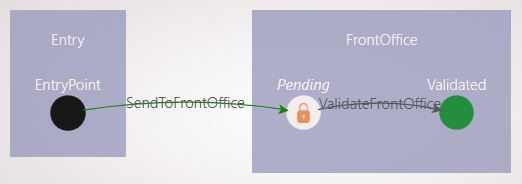
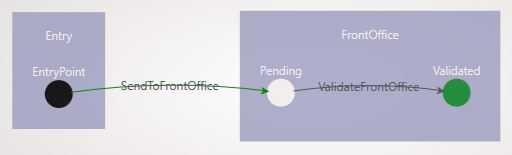
Updating state documentation

Changed region(s): [[0.0, 0.0516, 1.0, 0.9548], [0.6562, 0.1806, 0.8125, 0.2581]]

diff --git a/Documentation/README.md b/Documentation/README.md
@@ -101,8 +101,9 @@ In XCStudio a state machine is a set of states, a state machine is delimited by 
 
 ### State definition
 
-A state is the current status of a state machine instance.
-A state is represented by a colored circle in XCStudio.
+A state is the current status of a state machine instance. An instance can only be in one state at a time. 
+
+The state is represented by a colored circle in XCStudio. We will explain the different state types and their associated colors with more details in the [States in depth](#states-in-depth) section.
 
 ### Transition definition
 
@@ -266,11 +267,11 @@ Follow these instructions to create a simple state machine with 2 states and 1 t
 - Rename the transition to *SendToFrontOffice*
 - Rename *StateMachine1* to *Entry*
 
-The component looks like this:
+The component will look like the following:
 
 ![component details](Images/component_impl.jpg)
 
-> It is important to notice that each time you arrive on a state machine from another, a new instance of state machine is created.
+> It is important to notice that each time you arrive on a state machine from another, a new instance of that state machine is created.
 
 Save your component: File + Save or Crtl+S.
 Notice that you can save the project by using the Maj+Ctrl+S shortcut
@@ -301,7 +302,7 @@ Another way to do this is to press the DEL key when you have selected one or mor
 ### Creating a component data structure
 
 XComponent is an event-driven platform. It means that:
-- you can events to components to trigger transitions
+- you can send events to components to trigger transitions
 - you will receive event notifications from state machines
 
 > Note: An event is defined as a C# class
@@ -328,20 +329,45 @@ Now we need to add classes to all transitions and state machines.
 
 ### States in depth
 
-You may have noticed that circles representing states in XCStudio can have various colors.
+A state machine can have 4 types of states.
 
-Here’s the meaning of the colors:
-- Black is reserved for *EntryPoint* states
-- White is for non-ending states
-- Green is used to indicate ending states inside a state machine
+#### Entry point state
 
-In the property panel, you can specify a comment on a state.
+Every component has exactly one entry point state. The state machine containing that latter is referred to as *entry point state machine*. When the component is initialized an instance of that state machine is created and its state is set to the entry point. Only one instance of the entry point state machine can exist in a component. Transitions can go **from** this state but no transition can have it as its target. It's an initial state that your state machine starts from but can never go back to.
 
-If you click on a state you can write a personal comment on it in the text area:
+This state in represented by a black circle in XCStudio. Its default name is *EntryPoint* and it can be renamed.
 
-![state comment](Images/state_comment.png)
+![entry point state](Images/entrypoint_state.jpg)
 
-> Note: Comments are used to generate your project documentation.
+#### Regular state
+
+This is a normal state. You can have as many regular states as you want in a state machine. It can be renamed and transitions can go **from** and **to** it. It is represented by a white circle in XCStudio.
+
+#### Final state
+
+A final state is a regular state that has no transition leaving it. So there is no way for the instance to leave that state. An instance is disposed when it reaches such a state. We recommand that your public and private members implement the *IDisposable* interface as, in that case, the engine will call their *Dispose()* method when disposing the state machine instance.
+
+This state is represented by a green circle in XCStudio.
+
+![final state](Images/final_state.jpg)
+
+#### Error state
+
+This is a built-in state and every state machine has exactly one error state. An instance reaches this state if an unhandled exception occurs in a triggered method. It acts as a final state so the instance is disposed. 
+
+The error state is hidden and will not appear in the model. It is only visible in XCSpy. it will appear only if an instance reaches it. Otherwise it is hidden by default. The exception message will be visible in the *Error message* field of the instance's properties control in the spy. It is represented by a purple circle and its name is set to **FatalError**. It's a reserved keyword so no state in your model can have that name.
+
+![error state](Images/fatalerror_state.jpg)
+
+Here are the properties related to a state:
+- The name
+- The *Private* flag : The state will not be visible in the composition when this is checked. So it will not be visible by the client API. A lock will appear inside the state when it is set as *Private*.
+- The comment : You can write a personal comment that will be used to generate your project documentation.
+- Triggered methods : The triggered methods to generate for this state. You will have as many entries as transitions targetting this state.
+
+The following image shows a state machine containing a *Private* state:
+
+![private state](Images/private_state.jpg)
 
 ### Transition in depth
 
